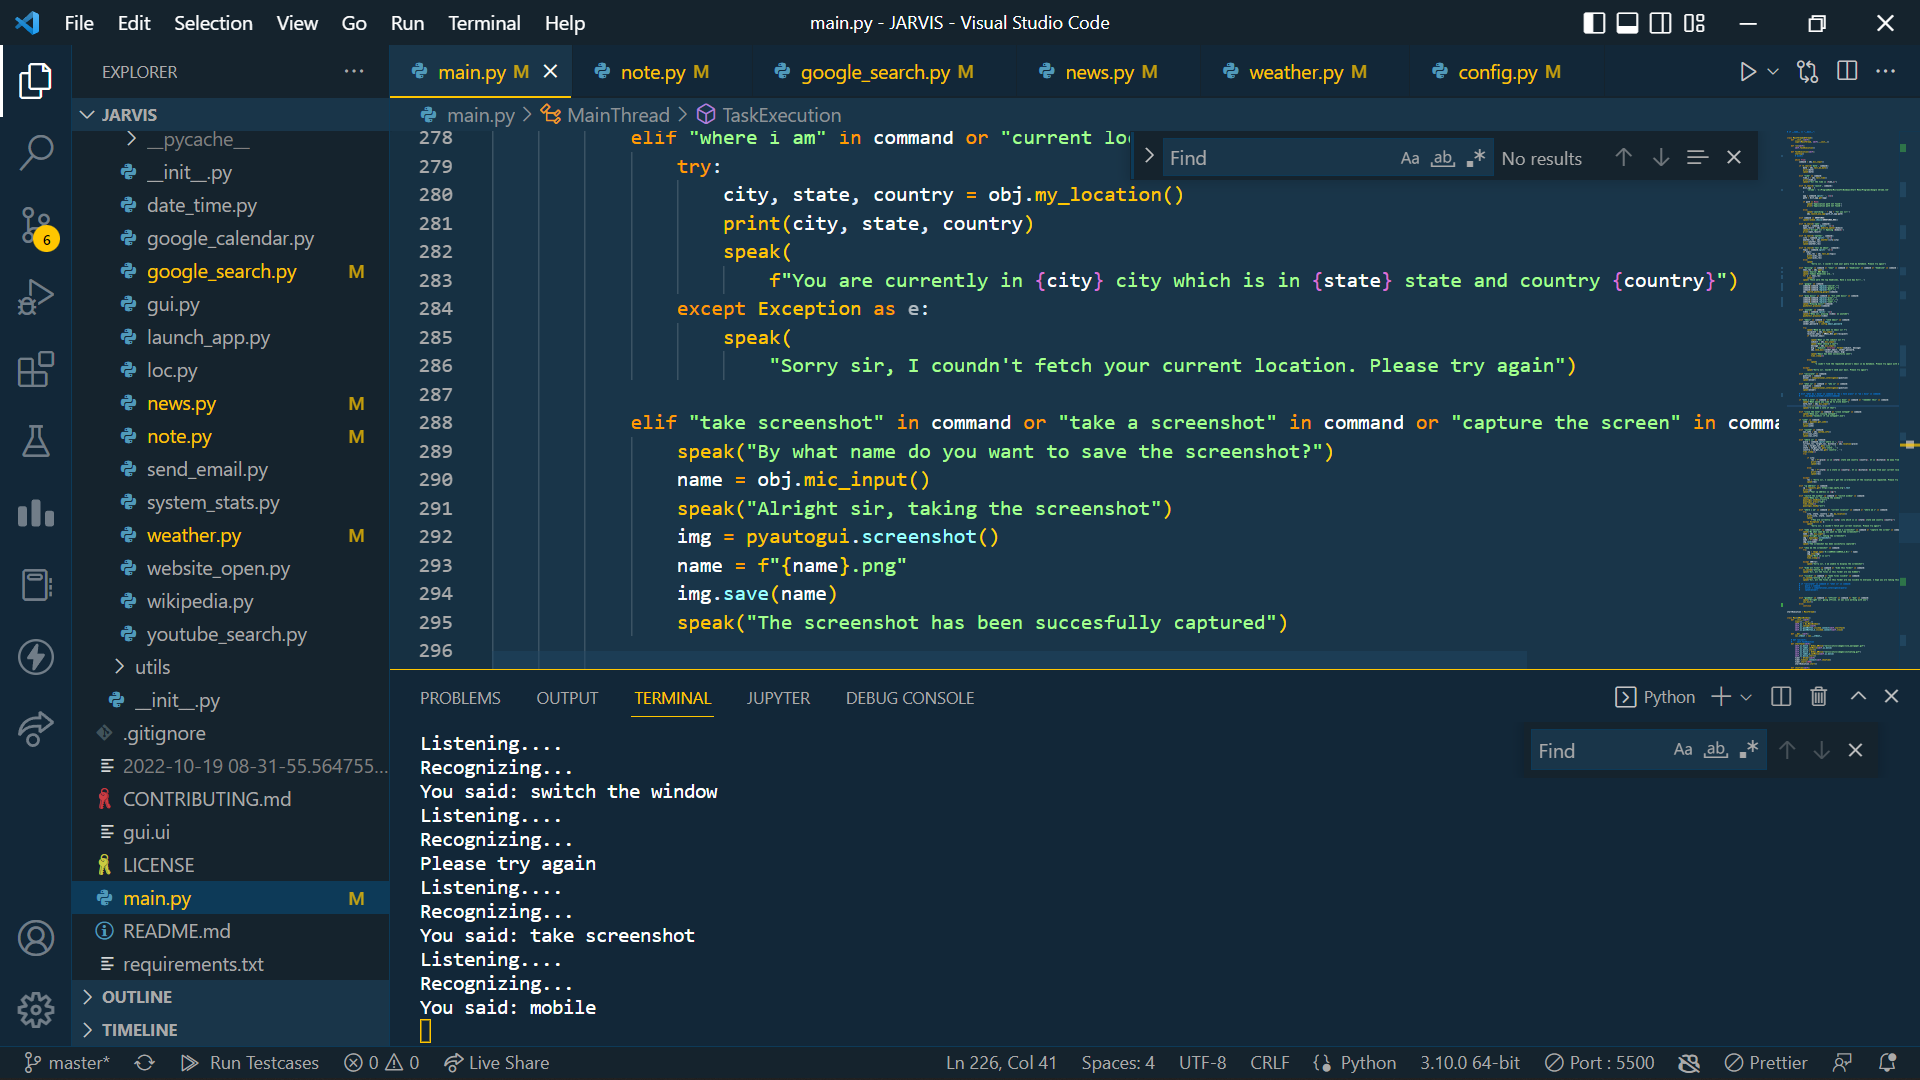
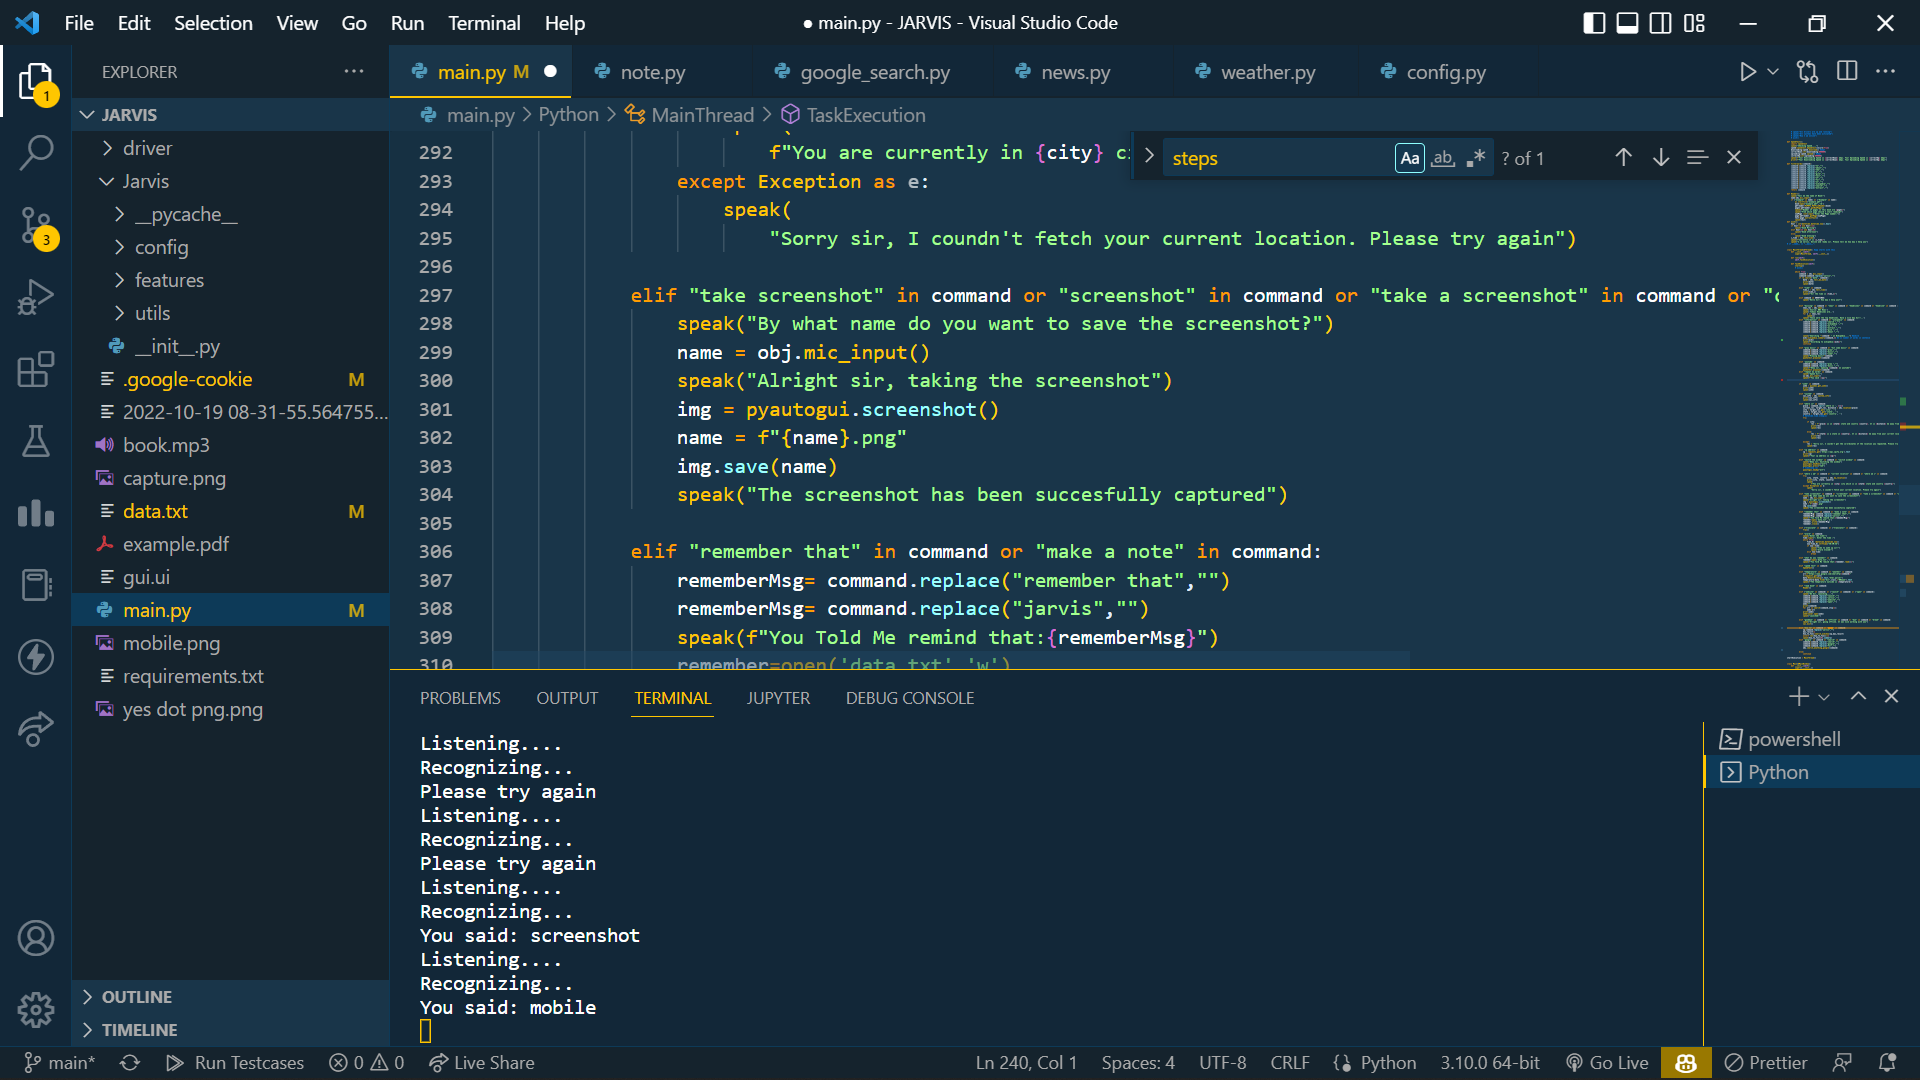
final project

diff --git a/main.py b/main.py
@@ -34,6 +34,7 @@ from Jarvis.config import config
 from googletrans import Translator
 from gtts import gTTS
 from playsound import playsound
+from Jarvis.features.curloc import *
 
 obj = JarvisAssistant()
 
@@ -53,11 +54,14 @@ GREETINGS_RES = ["always there for you sir", "i am ready sir",
 # =======================================================================================================================================================
 
 Assistant =pyttsx3.init('sapi5')   # microsoft ide for speech recognition.
-voices=Assistant.getProperty('voices') #creating instance variable
+voices=Assistant.getProperty('voices') #creating instance variable\
+
+
 # print(voices)
-Assistant.setProperty('voices',voices[0].id) #setting id of first voice to voices variable
+Assistant.setProperty('voices',voices[7].id) #setting id of first voice to voices variable
 # ) is male voice, 1 is female voice
 Assistant.setProperty('rate',170) #changing speed of jarvis speech . default=200
+
 
 def speak(text):
     obj.tts(text) #text to speech lib
@@ -111,11 +115,11 @@ def startup():
     speak("Starting all systems applications")
     speak("Installing and checking all drivers")
     speak("Caliberating and examining all the core processors")
-    # speak("Checking the internet connection")
-    # speak("Wait a moment sir")
-    # speak("All drivers are up and running")
-    # speak("All systems have been activated")
-    # speak("Now I am online")
+    speak("Checking the internet connection")
+    speak("Wait a moment sir")
+    speak("All drivers are up and running")
+    speak("All systems have been activated")
+    speak("Now I am online")
     # wish()
     
 def SpeedTest():
@@ -182,7 +186,7 @@ class MainThread(QThread): #app starts with this
     def TaskExecution(self):
         startup()
         # wish()
-
+        print(len(voices))
         while True:
             command = obj.mic_input()
             command=command.replace("jarvis","")
@@ -217,6 +221,7 @@ class MainThread(QThread): #app starts with this
             
                 speak("Searching "+command+ " on Wikipedia....") #mobile
                 wiki=wikipedia.summary(command,2) #2 is number of words in sentence
+                print(wiki)
                 speak(f"According to wikipedia:{wiki}")
                 continue
             
@@ -237,31 +242,6 @@ class MainThread(QThread): #app starts with this
                 jj=obj.mic_input()
                 speak(f"You said :{jj}")
 
-            # elif "email" in command or "send email" in command or "gmail" in command or "mail" in command:
-            #     sender_email = config.email
-            #     sender_email_id_password = config.email_password
-            #     try:
-            #         speak("Whom do you want to email sir ?")
-            #         recipient = obj.mic_input()
-            #         receiver_email = EMAIL_DIC.get(recipient)
-            #         if receiver_email:
-
-            #             s = smtplib.SMTP('smtp.gmail.com', 587)
-            #             s.starttls()
-            #             s.login(sender_email, sender_email_id_password)
-            #             speak("What should I say?")
-            #             message = obj.mic_input()
-            #             s.sendmail(sender_email, receiver_email, message)
-            #             s.quit()
-            #             speak("Email has been successfully sent")
-            #             time.sleep(2)
-
-                #     else:
-                #         speak(
-                #             "I coudn't find the requested person's email in my database. Please try again with a different name")
-
-                # except:
-                #     speak("Sorry sir. Couldn't send your mail. Please try again")
 
             if "joke" in command:
                 joke = pyjokes.get_joke()
@@ -309,14 +289,8 @@ class MainThread(QThread): #app starts with this
                 pyautogui.keyUp("alt")
 
             elif "where i am" in command or "current location" in command or "where am i" in command:
-                try:
-                    city, state, country = obj.my_location()
-                    print(city, state, country)
-                    speak(
-                        f"You are currently in {city} city which is in {state} state and country {country}")
-                except Exception as e:
-                    speak(
-                        "Sorry sir, I coundn't fetch your current location. Please try again")
+                curloc=getcurrentlocation()
+                speak(f"Your current location is {curloc}")
 
             elif "take screenshot" in command or "screenshot" in command or "take a screenshot" in command or "capture the screen" in command:
                 speak("By what name do you want to save the screenshot?")
@@ -385,7 +359,7 @@ class MainThread(QThread): #app starts with this
                 speak("Alright sir, going offline. It was nice working with you")
                 sys.exit()
 
-            elif "how to" in command:
+            elif "how to" in command or "steps" in command:
                 op=command.replace("jarvis","")
                 max_result=1
                 how_to_func=search_wikihow(op,max_result)
@@ -396,7 +370,7 @@ class MainThread(QThread): #app starts with this
                 command=command.replace("google","")
                 command=command.replace("for","")
                 obj.search_anything_google(command)
-            
+
             else:
                 continue
 

diff --git a/temp.py b/temp.py
@@ -1,0 +1,35 @@
+# importing library
+import requests
+from bs4 import BeautifulSoup
+
+# enter city name
+city = "lucknow"
+
+# creating url and requests instance
+url = "https://www.google.com/search?q="+"weather"+city
+html = requests.get(url).content
+print(html)
+
+# getting raw data
+soup = BeautifulSoup(html, 'html.parser')
+temp = soup.find('div', attrs={'class': 'BNeawe iBp4i AP7Wnd'}).text
+str = soup.find('div', attrs={'class': 'BNeawe tAd8D AP7Wnd'}).text
+
+# formatting data
+data = str.split('\n')
+time = data[0]
+sky = data[1]
+
+# getting all div tag
+listdiv = soup.findAll('div', attrs={'class': 'BNeawe s3v9rd AP7Wnd'})
+strd = listdiv[5].text
+
+# getting other required data
+pos = strd.find('Wind')
+other_data = strd[pos:]
+
+# printing all data
+print("Temperature is", temp)
+print("Time: ", time)
+print("Sky Description: ", sky)
+print(other_data)

diff --git a/Jarvis/features/curloc.py b/Jarvis/features/curloc.py
@@ -1,0 +1,9 @@
+import requests
+from bs4 import BeautifulSoup
+def getcurrentlocation():
+    command="what is the temperature here"
+    url=f"https://www.google.com/search?q={command}"
+    r=requests.get(url)
+    data=BeautifulSoup(r.text,"html.parser")
+    loc=data.find("span",class_="BNeawe tAd8D AP7Wnd").text
+    return loc
